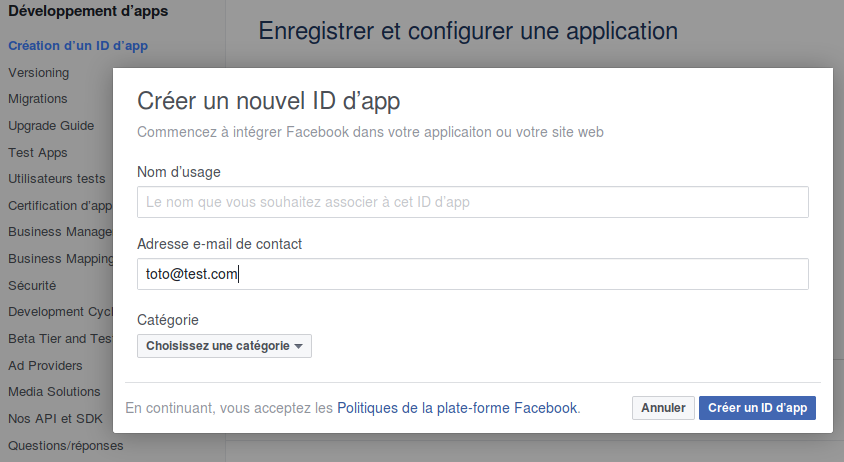
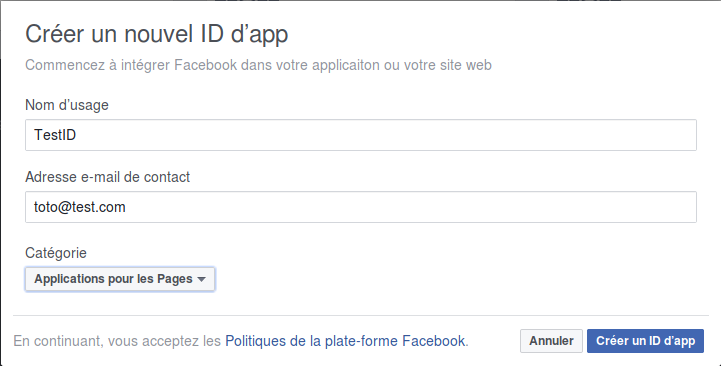
Updates fr/admin/oauth/facebook.md
Auto commit by GitBook Editor

diff --git a/fr/admin/oauth/facebook.md b/fr/admin/oauth/facebook.md
@@ -1,4 +1,5 @@
 ### Enregistrer et configurer une App Facebook
+
 ---
 
 Commencez par vous connecter à Facebook.
@@ -11,39 +12,35 @@ Cliquez sur le bouton **+ Ajouter une app** ou utilisez le menu déroulant **Mes
 
 ![](images/facebook-dev.png)
 
+Donnez un nom à votre App dans le champ "Display Name", choisissez **Applications pour les Pages** comme **Catégorie** et cliquez pour **Créer une ID d'app**.
 
-Choisissez **Basic setup** lorsqu'on vous demande de choisir une plateforme.
+
 
 ![](images/create-FB-ID.png)
 
-Donnez un nom à votre App dans le champ "Display Name", choisissez **Apps for Pages** comme **Catégorie** et cliquez pour **Créer aun ID d'app**.
+
 
 ![](images/fb_new_app_properties.jpg)
 
-
 Complétez le **Security Check**.
-
 
 ![](images/fb_security_check.jpg)
 
-
-Votre App est créée à présent! Copiez l'ID de l'App et le Secret de l'App du tableau de bord et copiez-les dans Claroline: Administration -> Paramètres de la platforme -> Oauth -> Facebook.
-
+Votre App est créée à présent! Copiez l'ID de l'App et le Secret de l'App du tableau de bord et copiez-les dans Claroline: Administration -&gt; Paramètres de la platforme -&gt; Oauth -&gt; Facebook.
 
 ![](images/fb_app_id_secret.jpg)
 
-
-Remplissez les champs **ID de l'application" et "Secret de l'application".
+Remplissez les champs \*\*ID de l'application" et "Secret de l'application".
 
 Configurez à présent votre App. Allez dans les **Paramètres**, donnez un courriel valide dans l'onglet "Basic" et cliquez sur **Save changes**.
 
 ![](images/fb_app_fill_email.jpg)
 
-Allez dans l'onglet **Advanced** et sélectionnez **Client OAuth Settings**. Choisissez l'option **Embedded Browser OAuth Login** et pour le **Valid OAuth redirect URL**, écrivez votre URL sous la forme suivante: _http://YOUR_DOMAIN_NAME/login/check-facebook_
+Allez dans l'onglet **Advanced** et sélectionnez **Client OAuth Settings**. Choisissez l'option **Embedded Browser OAuth Login** et pour le **Valid OAuth redirect URL**, écrivez votre URL sous la forme suivante: [http://YOUR\_DOMAIN\_NAME/login/check-facebook](http://YOUR_DOMAIN_NAME/login/check-facebook)
 
 Exemple:
 
-  http://3l.claroline.com/login/check-facebook
+[http://3l.claroline.com/login/check-facebook](http://3l.claroline.com/login/check-facebook)
 
 ![](images/fb_app_enable_browser_add_redirect.jpg)
 
@@ -52,3 +49,4 @@ Allez sur **App Review** et à la question _"Do you want to make this app and al
 ![](images/fb_app_publish_app.jpg)
 
 Félicitations! Vous avez configuré votre App Facebook!
+
